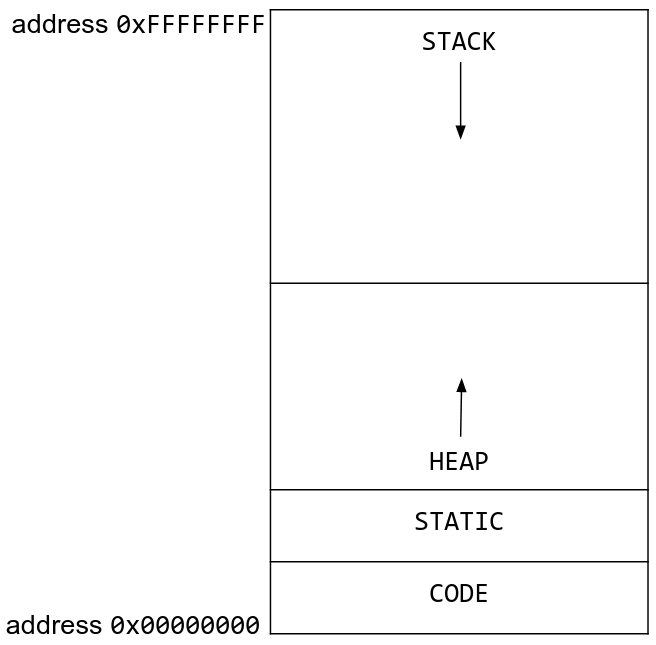
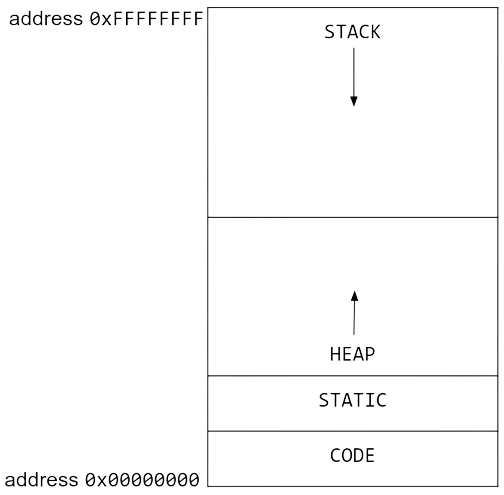
mem safety images, need to remove background

diff --git a/_sass/custom/custom.scss b/_sass/custom/custom.scss
@@ -9,5 +9,5 @@
 }
 
 :root[data-theme="dark"] .invertible {
-  filter: grayscale(50%) invert(100%) brightness(95%) hue-rotate(180deg);
+  filter: grayscale(50%) invert(100%) brightness(95%) hue-rotate(180deg) saturate(150%);
 }

diff --git a/memory-safety/x86.md b/memory-safety/x86.md
@@ -54,13 +54,11 @@ The size of the address space depends on your operating system and CPU architect
 
 We can draw the memory layout as one long array with $$2^{32}$$ elements, where each element is one byte. The leftmost element has address `0x00000000`, and the rightmost element has address `0xFFFFFFFF`.[^3]
 
-![1-dimensional address
-space](/assets/images/memory-safety/x86/1d-address-space.png)
+<img src="/assets/images/memory-safety/x86/1d-address-space.png" alt="1-dimensional address space light mode" class="invertible">
 
 However, this is hard to read, so we usually draw memory as a grid of bytes. In the grid, the bottom-left element has address `0x00000000`, and the top-right element has address `0xFFFFFFFF`. Addresses increase as you move from left to right and from bottom to top.
 
-![2-dimensional address
-space](/assets/images/memory-safety/x86/2d-address-space.png)
+<img src="/assets/images/memory-safety/x86/2d-address-space.png" alt="2-dimensional address space light mode" class="invertible">
 
 Although we can draw memory as a grid with annotations and labels, remember that the program only sees a huge array of raw bytes. It is up to the programmer and the compiler to manipulate this chunk of raw bytes to create objects like variables, pointers, arrays, and structs.
 
@@ -71,13 +69,13 @@ When a program is being run, the address space is divided into four sections. Fr
 - The _heap_ stores dynamically allocated data. When you call `malloc` in C, memory is allocated on the heap and given to you for use until you call `free`. The heap starts at lower addresses and "grows up" to higher addresses as more memory is allocated.
 - The _stack_ stores local variables and other information associated with function calls. The stack starts at higher addresses and "grows down" as more functions are called.
 
-![Memory Sections](/assets/images/memory-safety/x86/memory-sections.png)
+<img src="/assets/images/memory-safety/x86/memory-sections.png" alt="Memory sections" class="invertible">
 
 ## 2.4. Little-endian words
 
 x86 is a _little-endian_ system. This means that when storing a word in memory, the least significant byte is stored at the lowest address, and the most significant byte is stored at the highest address. For example, here we are storing the word `0x44332211` in memory:
 
-![Little-endian word format](/assets/images/memory-safety/x86/little-endian.png)
+<img src="/assets/images/memory-safety/x86/little-endian.png" alt="Little-endian word format" class="invertible">
 
 Note that the least significant byte `0x11` is stored at the lowest address, and the most significant byte `0x44` is stored at the highest address.
 
@@ -105,15 +103,13 @@ Sanity check: Which section of C memory (code, static, heap, stack) do each of t
 
 Sometimes we want to remember a value by saving it on the stack. There are two steps to adding a value on the stack. First, we have to allocate additional space on the stack by decrementing the esp. Then, we store the value in the newly allocated space. The x86 `push` instruction does both of these steps to add a value to the stack.
 
-![Before and after of pushing an item onto the
-stack](/assets/images/memory-safety/x86/push.png)
+<img src="/assets/images/memory-safety/x86/push.png" alt="Before and after of pushing an item onto the stack" class="invertible">
 
 We may also want to remove values from the stack. The x86 `pop` instruction increments esp to remove the next value on the stack. It also takes the value that was just popped and copies the value into a register.
 
 Note that when we pop a value off the stack, the value is not wiped away from memory. However, we increment esp so that the popped value is now below esp. The esp register points to the bottom of the stack, so the popped value below esp is now in undefined memory.
 
-![Before and after of popping an item off the
-stack](/assets/images/memory-safety/x86/pop.png)
+<img src="/assets/images/memory-safety/x86/pop.png" alt="Before and after of popping an item off the stack" class="invertible">
 
 (eax and ebx are general-purpose registers in x86. We use them here as an example of pushing and popping from the stack, but you don't need to know anything else about these registers.)
 
@@ -142,63 +138,51 @@ There are 11 steps to calling an x86 function and returning. In this example, `m
 
 Here is the stack before the function is called. ebp and esp point to the top and bottom of the caller stack frame.
 
-![Initial stack diagram, with a stack frame for main at the
-top](/assets/images/memory-safety/x86/stack0.png)
+<img src="/assets/images/memory-safety/x86/stack0.png" alt="Initial stack diagram, with a stack frame for main at the top" class="invertible">
 
 **1. Push arguments onto the stack.** RISC-V passes arguments by storing them in registers, but x86 passes arguments by pushing them onto the stack. Note that esp is decremented as we push arguments onto the stack. Arguments are pushed onto the stack in reverse order.
 
-![Next stack diagram, with argument 2 pushed below the stack frame for main and
-argument 1 pushed below argument 2](/assets/images/memory-safety/x86/stack1.png)
+<img src="/assets/images/memory-safety/x86/stack1.png" alt="Next stack diagram, with argument 2 pushed below the stack frame for main and argument 1 pushed below argument 2" class="invertible">
 
 **2. Push the old eip (rip) on the stack.** We are about to change the value in the eip register, so we need to save its current value on the stack before we overwrite it with a new value. When we push this value on the stack, it is called the _old eip_ or the _rip_ (return instruction pointer).[^6]
 
-![Next stack diagram, with the old eip pushed below argument
-1](/assets/images/memory-safety/x86/stack2.png)
+<img src="/assets/images/memory-safety/x86/stack2.png" alt="Next stack diagram, with the old eip pushed below argument 1" class="invertible">
 
 **3. Move eip.** Now that we've saved the old value of eip, we can safely change eip to point to the instructions for the callee function.
 
-![Next stack diagram, with the eip moved to the code for
-foo](/assets/images/memory-safety/x86/stack3.png)
+<img src="/assets/images/memory-safety/x86/stack3.png" alt="Next stack diagram, with the eip moved to the code for foo" class="invertible">
 
 **4. Push the old ebp (sfp) on the stack.** We are about to change the value in the ebp register, so we need to save its current value on the stack before we overwrite it with a new value. When we push this value on the stack, it is called the _old ebp_ or the _sfp_ (saved frame pointer). Note that esp has been decremented because we pushed a new value on the stack.
 
-![Next stack diagram, with the old ebp pushed below the old
-eip](/assets/images/memory-safety/x86/stack4.png)
+<img src="/assets/images/memory-safety/x86/stack4.png" alt="Next stack diagram, with the old ebp pushed below the old eip" class="invertible">
 
 **5. Move ebp down.** Now that we've saved the old value of ebp, we can safely change ebp to point to the top of the new stack frame. The top of the new stack frame is where esp is currently pointing, since we are about to allocate new space below esp for the new stack frame.
 
-![Next stack diagram, with the ebp moved to the
-esp](/assets/images/memory-safety/x86/stack5.png)
+<img src="/assets/images/memory-safety/x86/stack5.png" alt="Next stack diagram, with the ebp moved to the esp" class="invertible">
 
 **6. Move esp down.** Now we can allocate new space for the new stack frame by decrementing esp. The compiler looks at the complexity of the function to determine how far esp should be decremented. For example, a function with only a few local variables doesn't require too much space on the stack, so esp will only be decremented by a few bytes. On the other hand, if a function declares a large array as a local variable, esp will need to be decremented by a lot to fit the array on the stack.
 
-![Next stack diagram, with the esp down by 8
-bytes](/assets/images/memory-safety/x86/stack6.png)
+<img src="/assets/images/memory-safety/x86/stack6.png" alt="Next stack diagram, with the esp down by 8 bytes" class="invertible">
 
 **7. Execute the function.** Local variables and any other necessary data can now be saved in the new stack frame. Additionally, since ebp is always pointing at the top of the stack frame, we can use it as a point of reference to find other variables on the stack. For example, the arguments will be located starting at the address stored in ebp, plus 8.
 
-![Next stack diagram, with the 8 bytes previously allocated now having been used
-for local variables](/assets/images/memory-safety/x86/stack7.png)
+<img src="/assets/images/memory-safety/x86/stack7.png" alt="Next stack diagram, with the 8 bytes previously allocated now having been used for local variables" class="invertible">
 
 **8. Move esp up.** Once the function is ready to return, we increment esp to point to the top of the stack frame (ebp). This effectively erases the stack frame, since the stack frame is now located below esp. (Anything on the stack below esp is undefined.)
 
-![Next stack diagram, with the esp moved back up by 8
-bytes](/assets/images/memory-safety/x86/stack8.png)
+<img src="/assets/images/memory-safety/x86/stack8.png" alt="Next stack diagram, with the esp moved back up by 8 bytes" class="invertible">
 
 **9. Restore the old ebp (sfp)**. The next value on the stack is the sfp, the old value of ebp before we started executing the function. We pop the sfp off the stack and store it back into the ebp register. This returns ebp to its old value before the function was called.
 
-![Next stack diagram, with the old ebp popped off the stack and the ebp moved to
-its location](/assets/images/memory-safety/x86/stack9.png)
+<img src="/assets/images/memory-safety/x86/stack9.png" alt="Next stack diagram, with the old ebp popped off the stack and the ebp moved to its location" class="invertible">
 
 **10. Restore the old eip (rip)**. The next value on the stack is the rip, the old value of eip before we started executing the function. We pop the rip off the stack and store it back into the eip register. This returns eip to its old value before the function was called.[^7]
 
-![Next stack diagram, with the old eip popped off the stack and the eip moved to
-its location](/assets/images/memory-safety/x86/stack10.png)
+<img src="/assets/images/memory-safety/x86/stack10.png" alt="Next stack diagram, with the old eip popped off the stack and the eip moved to its location" class="invertible">
 
 **11. Remove arguments from the stack.** Since the function call is over, we don't need to store the arguments anymore. We can remove them by incrementing esp (recall that anything on the stack below esp is undefined).
 
-![Next stack diagram, with the esp moved up by 8 bytes to now be above the
-arguments](/assets/images/memory-safety/x86/stack11.png)
+<img src="/assets/images/memory-safety/x86/stack11.png" alt="Next stack diagram, with the esp moved up by 8 bytes to now be above the arguments" class="invertible">
 
 You might notice that we saved the old values of eip and ebp during the function call, but not the old value of esp. A nice consequence of this function call design is that esp will automatically move to the bottom of the stack as we push values onto the stack and automatically return to its old position as we remove values from the stack. As a result, there is no need to save the old value of esp during the function call.
 

diff --git a/memory-safety/vulnerabilities.md b/memory-safety/vulnerabilities.md
@@ -25,8 +25,7 @@ void vulnerable() {
 
 In this example, `gets()` reads as many bytes of input as the user supplies (through standard input), and stores them into `buf[]`. If the input contains more than 8 bytes of data, then `gets()` will write past the end of `buf`, overwriting some other part of memory. This is a bug.
 
-![Two words of memory for buf overwritten and two more words of memory above it
-overwritten](/assets/images/memory-safety/vulnerabilities/overflow1.png)
+<img src="/assets/images/memory-safety/vulnerabilities/overflow1.png" alt="Two words of memory for buf overwritten and two more words of memory above it overwritten" class="invertible">
 
 Note that `char buf[8]` is defined outside of the function, so it is located in the static part of memory. Also note that each row of the diagram represents 4 bytes, so `char buf[8]` takes up 2 rows.
 
@@ -46,8 +45,7 @@ Note that both `char buf[8]` and `authenticated` are defined outside of the func
 
 Imagine that elsewhere in the code, there is a login routine that sets the `authenticated` flag only if the user proves knowledge of the password. Unfortunately, the `authenticated` flag is stored in memory right after `buf`. Note that we use "after" here to mean "at a higher memory address".
 
-![Two words of memory for buf overwritten and an authenticated above it
-overwritten](/assets/images/memory-safety/vulnerabilities/overflow2.png)
+<img src="/assets/images/memory-safety/vulnerabilities/overflow2.png" alt="Two words of memory for buf overwritten and an authenticated above it overwritten" class="invertible">
 
 If the attacker can write 9 bytes of data to `buf` (with the 9th byte set to a non-zero value), then this will set the `authenticated` flag to true, and the attacker will be able to gain access.
 
@@ -67,8 +65,7 @@ void vulnerable() {
 
 Like `authenticated` in the previous example, `fnptr` is stored directly above `buf` in memory.
 
-![Two words of memory for buf overwritten and a function pointer above it
-overwritten](/assets/images/memory-safety/vulnerabilities/overflow3.png)
+<img src="/assets/images/memory-safety/vulnerabilities/overflow3.png" alt="Two words of memory for buf overwritten and a function pointer above it overwritten" class="invertible">
 
 Suppose the function pointer `fnptr` is called elsewhere in the program (not shown). This enables a more serious attack: the attacker can overwrite `fnptr` with any address of their choosing, redirecting program execution to some other memory location.
 
@@ -99,8 +96,7 @@ void vulnerable() {
 
 When `vulnerable()` is called, a stack frame is pushed onto the stack. The stack will look something like this:
 
-![Two words of memory for buf overwritten and the rip and sfp above it
-overwritten](/assets/images/memory-safety/vulnerabilities/overflow4.png)
+<img src="/assets/images/memory-safety/vulnerabilities/overflow4.png" alt="Two words of memory for buf overwritten and the rip and sfp above it overwritten" class="invertible">
 
 If the input is too long, the code will write past the end of `buf`, overwrite the sfp, and overwrite the rip. This is a _stack smashing_ attack.
 
@@ -116,9 +112,8 @@ After writing 12 garbage bytes, our next input bytes will overwrite the rip. Rec
 
 Since malicious code exists at address `0xDEADBEEF`, the second part of our input, which overwrites the rip, is the address `0xDEADBEEF`. Note that since x86 is little-endian, we must input the bytes in reverse order: the byte `0xEF` is entered first, and the byte `0xDE` is entered last.
 
-![Two words of memory for buf and the sfp overwritten with 0xAAAA and the rip
-overwritten with
-0xDEADBEEF](/assets/images/memory-safety/vulnerabilities/overflow5.png)
+<img src="/assets/images/memory-safety/vulnerabilities/overflow5.png" alt="Two words of memory for buf and the sfp overwritten with 0xAAAA and the rip
+overwritten with 0xDEADBEEF" class="invertible">
 
 Now, when the `vulnerable()` function returns, the program will start executing instructions at the address in rip. Since we overwrote the rip with the address `0xDEADBEEF`, the program will start executing the malicious instructions at that address. This effectively transfers control of the program over to the attacker's malicious code.
 
@@ -134,9 +129,8 @@ At this point, we've entered 8 bytes, so we've filled up all of `buf`. Our next 
 
 Finally, we overwrite the rip with the address of shellcode, as before. However, this time, the shellcode is located in the buffer, so we overwrite the rip with the address of `buf`. When the function returns, it will start executing instructions at `buf`, which causes the shellcode to execute.
 
-![buf overwritten with shellcode, the sfp overwritten with 0xAAAA, and the rip
-overwritten with the address of
-buf](/assets/images/memory-safety/vulnerabilities/overflow6.png)
+<img src="/assets/images/memory-safety/vulnerabilities/overflow6.png" alt="buf overwritten with shellcode, the sfp overwritten with 0xAAAA, and the rip
+overwritten with the address of buf" class="invertible">
 
 Now suppose our shellcode is 100 bytes long. If we try our input from before, the shellcode won't fit in the 12 bytes between the buffer and the rip. It turns out we can still craft an input to exploit the program:
 
@@ -144,9 +138,8 @@ Now suppose our shellcode is 100 bytes long. If we try our input from before, th
 
 In this input, we place the shellcode directly above the rip in memory. The rip is 4 bytes long, so the address of the start of shellcode is 4 bytes greater than the address of the rip. When the function returns, it will start executing instructions 4 bytes above the address of the rip, where we've placed our shellcode.
 
-![Two words of buf and the sfp overwritten with 0xAAAA, the rip overwritten with
-the address of rip + 4, and the shellcode overwritten above
-it](/assets/images/memory-safety/vulnerabilities/overflow7.png)
+<img src="/assets/images/memory-safety/vulnerabilities/overflow7.png" alt="Two words of buf and the sfp overwritten with 0xAAAA, the rip overwritten with
+the address of rip + 4, and the shellcode overwritten above it" class="invertible">
 
 The discussion above has barely scratched the surface of techniques for exploiting buffer overrun bugs. Stack smashing dates back to at least the late 1980s, when the [Morris Worm](https://en.wikipedia.org/wiki/Morris_worm) exploited a buffer overflow vulnerability to infect thousands of computers. Buffer overflows gained wider attention in 1998 with the publication of ["Smashing the Stack for Fun and Profit" by Aleph One](https://inst.eecs.berkeley.edu/~cs161/fa08/papers/stack_smashing.pdf).
 
@@ -176,13 +169,13 @@ void not_vulnerable() {
 
 The stack diagram for this function would look something like this:
 
-![Initial non vulnerable code with printf](/assets/images/memory-safety/vulnerabilities/printfnotvulnerable.png)
+<img src="/assets/images/memory-safety/vulnerabilities/printfnotvulnerable.png" alt="Initial non vulnerable code with printf" class="invertible">
 
 When the `printf()` function executes, it looks for a format string modifier denoted by a “%” in its first argument located 4 bytes above the RIP of `printf()`. If it finds the modifier, it then looks 8 bytes above the RIP for the "actual" argument (i.e. what the format modifier will be acting upon).
 
 The behavior of the `printf()` function is generally controlled by the format modifier(s) that are passed into the function. The `printf()` function retrieves the parameters that are requested by the format string from the stack. Take, for example, the following line of code: `printf("x has the value %d, y has the value %d, z has the value %d \n", x, y, z);` The stack frame for this line of code would look like:
 
-![Not vulnerable printf statement](/assets/images/memory-safety/vulnerabilities/printfnotvulnerable2.png)
+<img src="/assets/images/memory-safety/vulnerabilities/printfnotvulnerable2.png" alt="Not vulnerable printf statement" class="invertible">
 
 Remember that arguments to a function are pushed onto the stack in reverse order, which is why the address of the format string is at a lower address compared to the values of `x`, `y`, and `z`.
 
@@ -267,8 +260,7 @@ Consider a buffer whose bounds checks are off by one. This means we can write `n
 
 The following two diagrams are from Section 10 of ["ASLR Smack & Laugh Reference" by Tilo Müller](http://www.icir.org/matthias/cs161-sp13/aslr-bypass.pdf). It shows how overwriting a single byte lets you start executing instructions at an arbitrary address in memory.
 
-![Stack diagrams showing the exploitation of an off-by-one
-vulnerability for the first return](/assets/images/memory-safety/vulnerabilities/offbyone1.png)
+<img src="/assets/images/memory-safety/vulnerabilities/offbyone1.png" alt="Stack diagrams showing the exploitation of an off-by-one vulnerability for the first return" class="invertible">
 
 **Step 1**: This is what normal execution during a function looks like. Consider reviewing the x86 section of the notes if you'd like a refresher. The stack has the rip (saved eip), sfp (saved ebp), and the local variable `buff`. The esp register points to the bottom of the stack. The ebp register points to the sfp at the top of the stack. The sfp (saved ebp) points to the ebp of the previous function, which is higher up in memory. The rip (saved eip) points to somewhere in the code section.
 
@@ -296,8 +288,7 @@ After step 5, nothing has changed, except that the ebp now points inside the buf
 
 The key insight for this exploit is that one function return is not enough. However, eventually, if a second function return happens, it will allow us to start executing instructions at an arbitrary location. Let's walk through the same 3 instructions again, but this time with ebp incorrectly pointing in the buffer.
 
-![Stack diagrams showing the exploitation of an off-by-one
-vulnerability for the second return](/assets/images/memory-safety/vulnerabilities/offbyone2.png)
+<img src="/assets/images/memory-safety/vulnerabilities/offbyone2.png" alt="Stack diagrams showing the exploitation of an off-by-one vulnerability for the second return" class="invertible">
 
 **Step 6**: `mov %ebp, %esp`: esp now points where ebp is pointing, which is inside the buffer. At this point in normal execution, both ebp and esp think that they are pointing at the sfp.
 
@@ -317,8 +308,8 @@ Buffer overflows, format string vulnerabilities, and the other examples above ar
 
 C++ vtable pointers are a classic example of a _heap overflow_. In C++, the programmer can declare an object on the heap. Storing an object requires storing a _vtable pointer_, a pointer to an array of pointers. Each pointer in the array contains the address of one of that object's methods. The object's instance variables are stored directly above the vtable pointer.
 
-![A diagram of a C++ object allocated in the heap, with its instance variables
-above its vtable](/assets/images/memory-safety/vulnerabilities/vtable.png)
+<img src="/assets/images/memory-safety/vulnerabilities/vtable.png" alt="A diagram of a C++ object allocated in the heap, with its instance variables
+above its vtable" class="invertible">
 
 If the programmer fails to check bounds correctly, the attacker can overflow one of the instance variables of object `x`. If there is another object above `x` in memory, like object `y` in this diagram, then the attacker can overwrite that object's vtable pointer.
 

diff --git a/crypto/symmetric.md b/crypto/symmetric.md
@@ -236,9 +236,9 @@ There are several standard ways (or modes of operation) of building an encryptio
 
 - ECB mode decryption: $$M_i = D_K(C_i)$$
 
-<img src="/assets/images/crypto/symmetric/ECB_encryption.png" alt="Diagram of encryption for the ECB mode of operation in light mode" class="invertible">
+<img src="/assets/images/crypto/symmetric/ECB_encryption.png" alt="Diagram of encryption for the ECB mode of operation" class="invertible">
 
-<img src="/assets/images/crypto/symmetric/ECB_decryption.png" alt="Diagram of decryption for the ECB mode of operation in light mode" class="invertible">
+<img src="/assets/images/crypto/symmetric/ECB_decryption.png" alt="Diagram of decryption for the ECB mode of operation" class="invertible">
 
 **CBC Mode** (Cipher Block Chaining): This is a popular mode for commercial applications. For each message the sender picks a random $$n$$-bit string, called the _initial vector_ or IV. Define $$C_0 = IV$$. The $$i^\textrm{th}$$ ciphertext block is given by $$C_i = E_K(C_{i-1} \oplus M_i)$$. The ciphertext is the concatenation of the initial vector and these individual blocks: $$C = IV \cdot C_1 \cdot C_2 \cdots C_l$$. CBC mode has been proven to provide strong security guarantees on the privacy of the plaintext message (assuming the underlying block cipher is secure).
 
@@ -246,9 +246,9 @@ There are several standard ways (or modes of operation) of building an encryptio
 
 - CBC mode decryption: $$P_i = D_K(C_i) \oplus C_{i-1}$$
 
-<img src="/assets/images/crypto/symmetric/CBC_encryption.png" alt="Diagram of encryption for the CBC mode of operation in light mode" class="invertible">
+<img src="/assets/images/crypto/symmetric/CBC_encryption.png" alt="Diagram of encryption for the CBC mode of operation" class="invertible">
 
-<img src="/assets/images/crypto/symmetric/CBC_decryption.png" alt="Diagram of decryption for the CBC mode of operation in light mode" class="invertible">
+<img src="/assets/images/crypto/symmetric/CBC_decryption.png" alt="Diagram of decryption for the CBC mode of operation" class="invertible">
 
 **CFB Mode** (Ciphertext Feedback Mode): This is another popular mode with properties very similar to CBC mode. Again, $$C_0$$ is the IV. The $$i^\textrm{th}$$ ciphertext block is given by $$C_i = E_K(C_{i-1}) \oplus M_i$$.
 
@@ -263,9 +263,9 @@ There are several standard ways (or modes of operation) of building an encryptio
 
 - CFB mode decryption: $$P_i = E_K(C_{i-1}) \oplus C_i$$
 
-<img src="/assets/images/crypto/symmetric/CFB_encryption.png" alt="Diagram of encryption for the CFB mode of operation in light mode" class="invertible">
+<img src="/assets/images/crypto/symmetric/CFB_encryption.png" alt="Diagram of encryption for the CFB mode of operation" class="invertible">
 
-<img src="/assets/images/crypto/symmetric/CFB_decryption.png" alt="Diagram of decryption for the CFB mode of operation in light mode" class="invertible">
+<img src="/assets/images/crypto/symmetric/CFB_decryption.png" alt="Diagram of decryption for the CFB mode of operation" class="invertible">
 
 **OFB Mode** (Output Feedback Mode): In this mode, the initial vector IV is repeatedly encrypted to obtain a set of values $$Z_i$$ as follows: $$Z_0 = IV$$ and $$Z_i = E_K(Z_{i-1})$$. These values $$Z_i$$ are now used as though they were the key for a one-time pad, so that $$C_i = Z_i \oplus M_i$$. The ciphertext is the concatenation of the initial vector and these individual blocks: $$C = IV \cdot C_1 \cdot C_2 \cdots C_l$$. In OFB mode, it is very easy to tamper with ciphertexts. For instance, suppose that the adversary happens to know that the $$j^\textrm{th}$$ block of the message, $$M_j$$, specifies the amount of money being transferred to his account from the bank, and suppose he also knows that $$M_j = 100$$. Since he knows both $$M_j$$ and $$C_j$$, he can determine $$Z_j$$. He can then substitute any $$n$$-bit block in place of $$M_j$$ and get a new ciphertext $$C'_j$$ where the $$100$$ is replaced by any amount of his choice. This kind of tampering is also possible with other modes of operation as well (so don't be fooled into thinking that CBC mode is safe from tampering); it's just easier to illustrate on OFB mode.
 
@@ -279,10 +279,10 @@ There are several standard ways (or modes of operation) of building an encryptio
 
 - OFB mode decryption: $$P_i = C_i \oplus Z_i$$
 
-<img src="/assets/images/crypto/symmetric/OFB_encryption.png" alt="Diagram of encryption for the OFB mode of operation in light mode" class="invertible">
+<img src="/assets/images/crypto/symmetric/OFB_encryption.png" alt="Diagram of encryption for the OFB mode of operation" class="invertible">
 
 
-<img src="/assets/images/crypto/symmetric/OFB_decryption.png" alt="Diagram of decryption for the OFB mode of operation in light mode" class="invertible">
+<img src="/assets/images/crypto/symmetric/OFB_decryption.png" alt="Diagram of decryption for the OFB mode of operation" class="invertible">
 
 **Counter (CTR) Mode**: In CTR mode, a counter is initialized to IV and repeatedly incremented and encrypted to obtain a sequence that can now be used as though they were the keys for a one-time pad: namely, $$Z_i = E_K(IV + i)$$ and $$C_i = Z_i \oplus M_i$$. In CTR mode, the IV is sometimes renamed the _nonce_. This is just a terminology difference--nonce and IV can be used interchangeably for the purposes of this class.
 
@@ -292,9 +292,9 @@ Note that in CTR and OFB modes, the decryption algorithm uses the block cipher _
 
 - CTR mode decryption: $$M_i = E_K(IV + i) \oplus C_i$$
 
-<img src="/assets/images/crypto/symmetric/CTR_encryption.png" alt="Diagram of encryption for the CTR mode of operation in light mode" class="invertible">
+<img src="/assets/images/crypto/symmetric/CTR_encryption.png" alt="Diagram of encryption for the CTR mode of operation" class="invertible">
 
-<img src="/assets/images/crypto/symmetric/CTR_decryption.png" alt="Diagram of decryption for the CTR mode of operation in light mode" class="invertible">
+<img src="/assets/images/crypto/symmetric/CTR_decryption.png" alt="Diagram of decryption for the CTR mode of operation" class="invertible">
 
 For the rest of these notes, we will focus on analyzing CBC and CTR modes. As an exercise, you can try performing similar analysis on the other modes as well.
 

diff --git a/memory-safety/mitigations.md b/memory-safety/mitigations.md
@@ -85,8 +85,7 @@ The stack canary uses the fact that many common stack smashing attacks involve o
 
 The stack canary is placed directly above the local variables and directly below the saved registers (sfp and rip):
 
-![A stack canary located between the sfp and the local variables of a given
-stack frame](/assets/images/memory-safety/mitigations/canary.png)
+<img src="/assets/images/memory-safety/mitigations/canary.png" alt="A stack canary located between the sfp and the local variables of a given stack frame" class="invertible">
 
 Suppose an attacker wants to overflow a local variable to overwrite the rip on the stack, and the vulnerability only allows the attacker to write to consecutive, increasing addresses in memory. Then the attacker must overwrite the stack canary before overwriting the rip, since the rip is located above the buffer in the stack.
 
